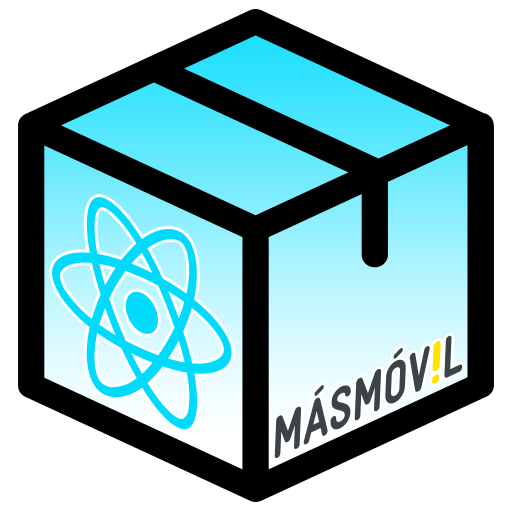
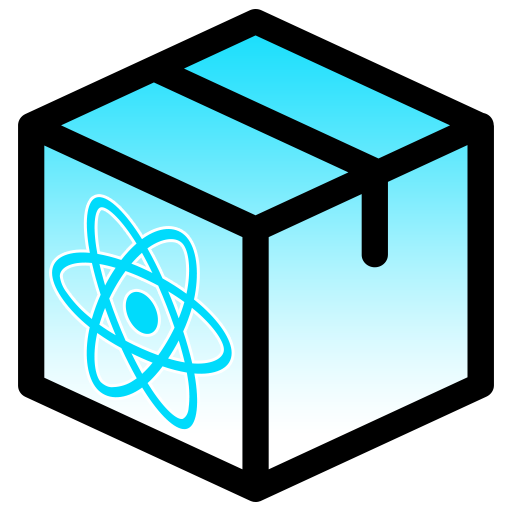
feat(readme): remove mm

Changed region(s): [[0.5312, 0.6562, 0.9062, 0.9062]]

diff --git a/README.md b/README.md
@@ -1,4 +1,4 @@
-![](icon.png)
+<img src="banner.png" alt="drawing" width="700"/>
 
 [marketplace.visualstudio/ark-react-extensions-pack](https://marketplace.visualstudio.com/items?itemName=AlvaroAlmendros.ark-react-extensions-pack)
 
